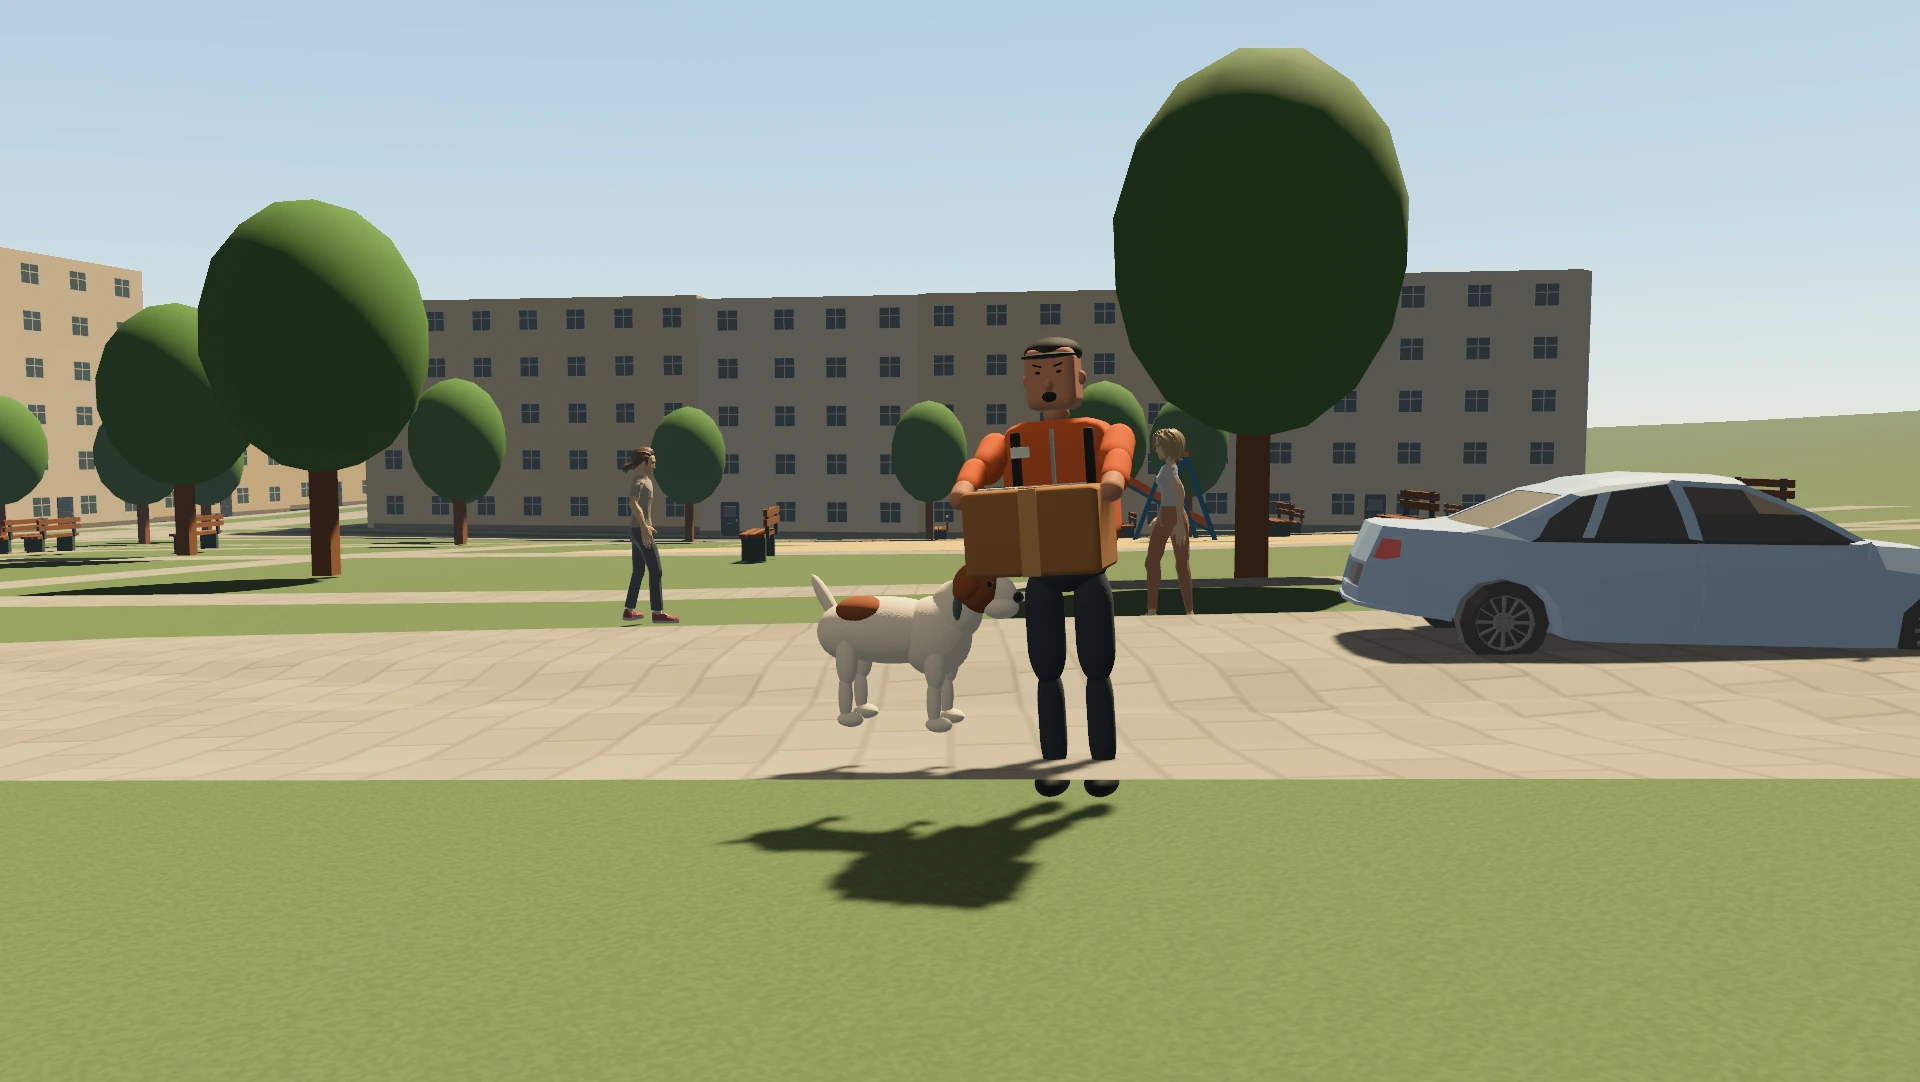
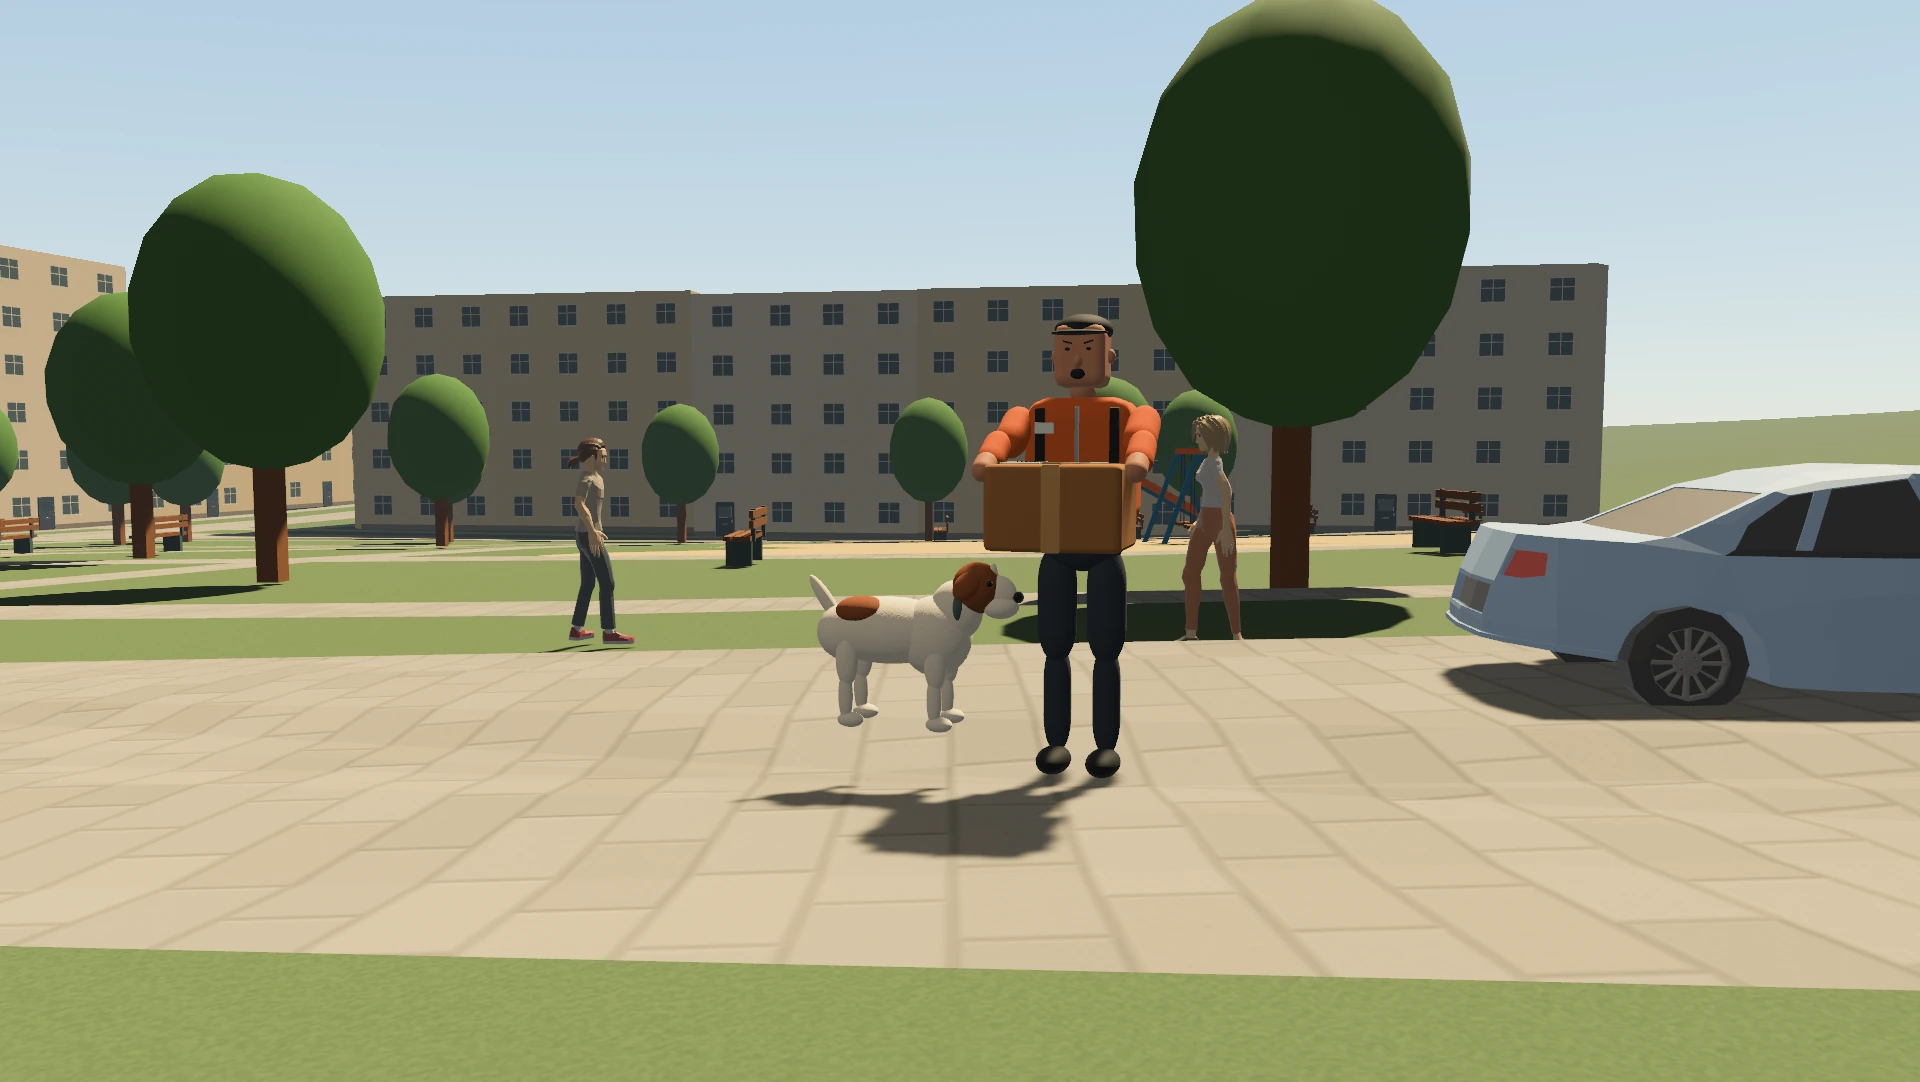
Keep the cover courier's shoes above the pavement

diff --git a/crates/game/src/press_scene.rs b/crates/game/src/press_scene.rs
@@ -9,7 +9,7 @@ use bevy::prelude::*;
 use paket_geo::{FIXTURE_LAT, FIXTURE_LON, TileId};
 
 // The west side of Chamissoplatz, facing the mapped playground.
-const CHAMISSOPLATZ: Vec3 = Vec3::new(-11., 0., 158.);
+const CHAMISSOPLATZ: Vec3 = Vec3::new(-9.2, 0., 158.);
 
 #[derive(Resource, Default)]
 struct Scene {
@@ -74,8 +74,8 @@ fn compose(
         let right = rotation * Vec3::X;
         let courier = commands
             .spawn((
-                Transform::from_translation(base)
-                    .with_rotation(rotation * Quat::from_rotation_z(-0.07)),
+                // The paved road is drawn above the heightfield the pose is placed on.
+                Transform::from_translation(base + Vec3::Y * 0.08).with_rotation(rotation),
                 Visibility::default(),
                 HoldingParcel,
                 DespawnOnExit(Mode::Ride),
